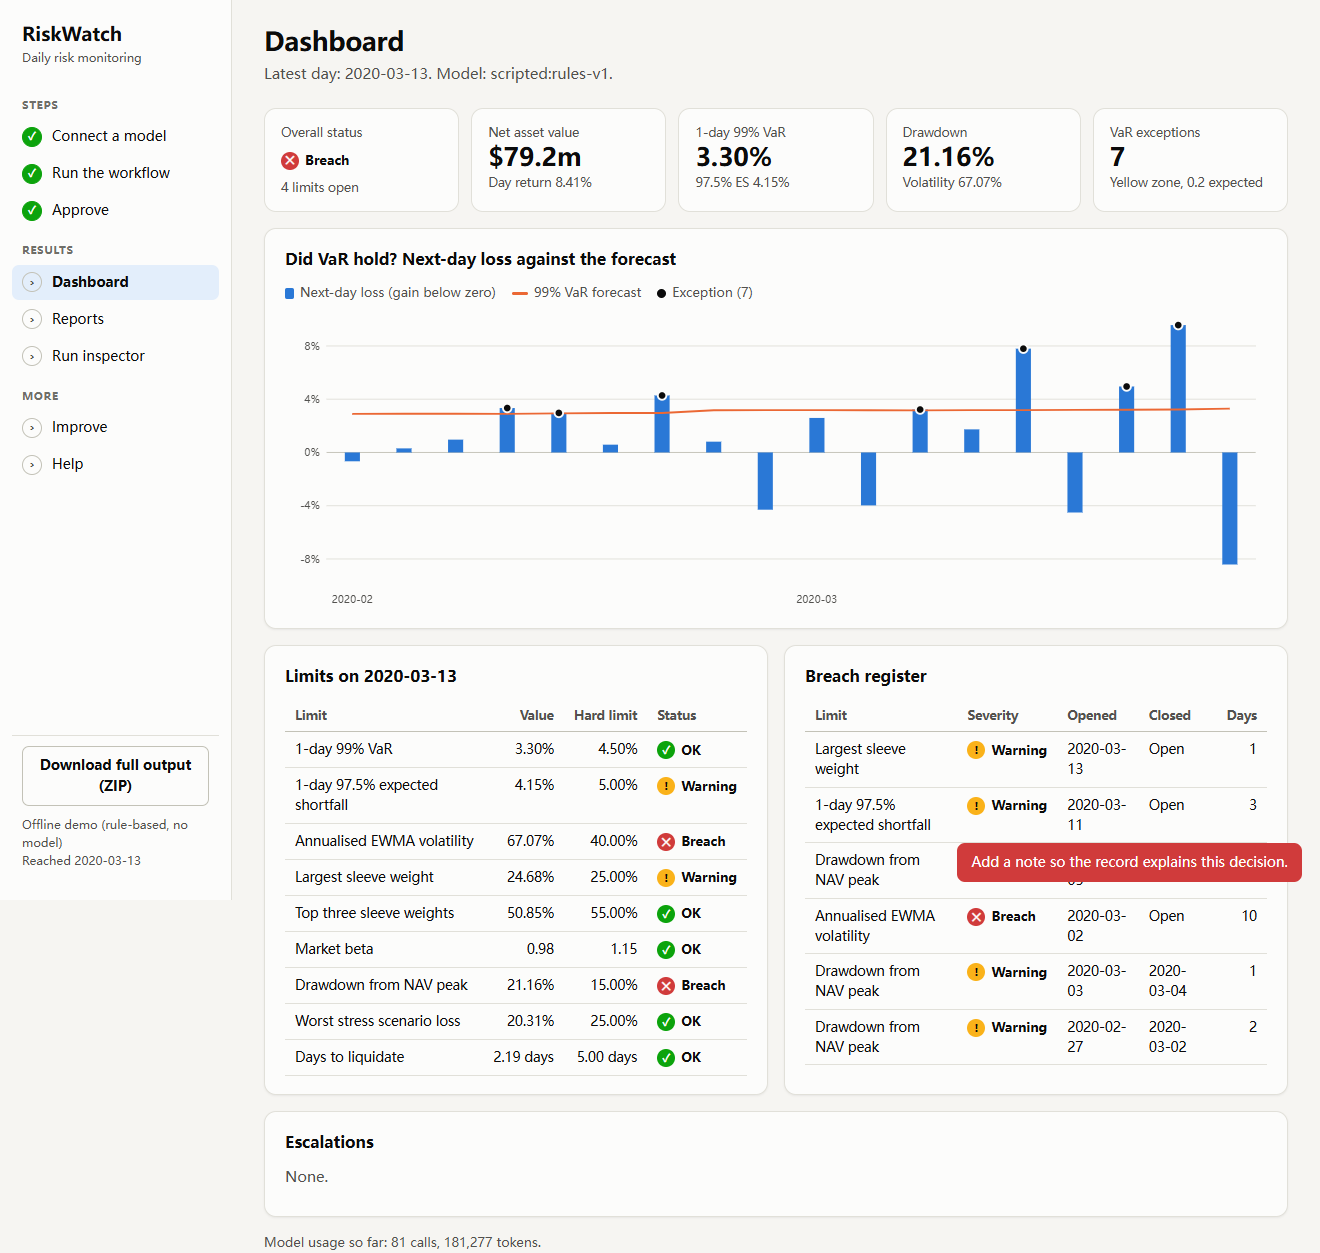
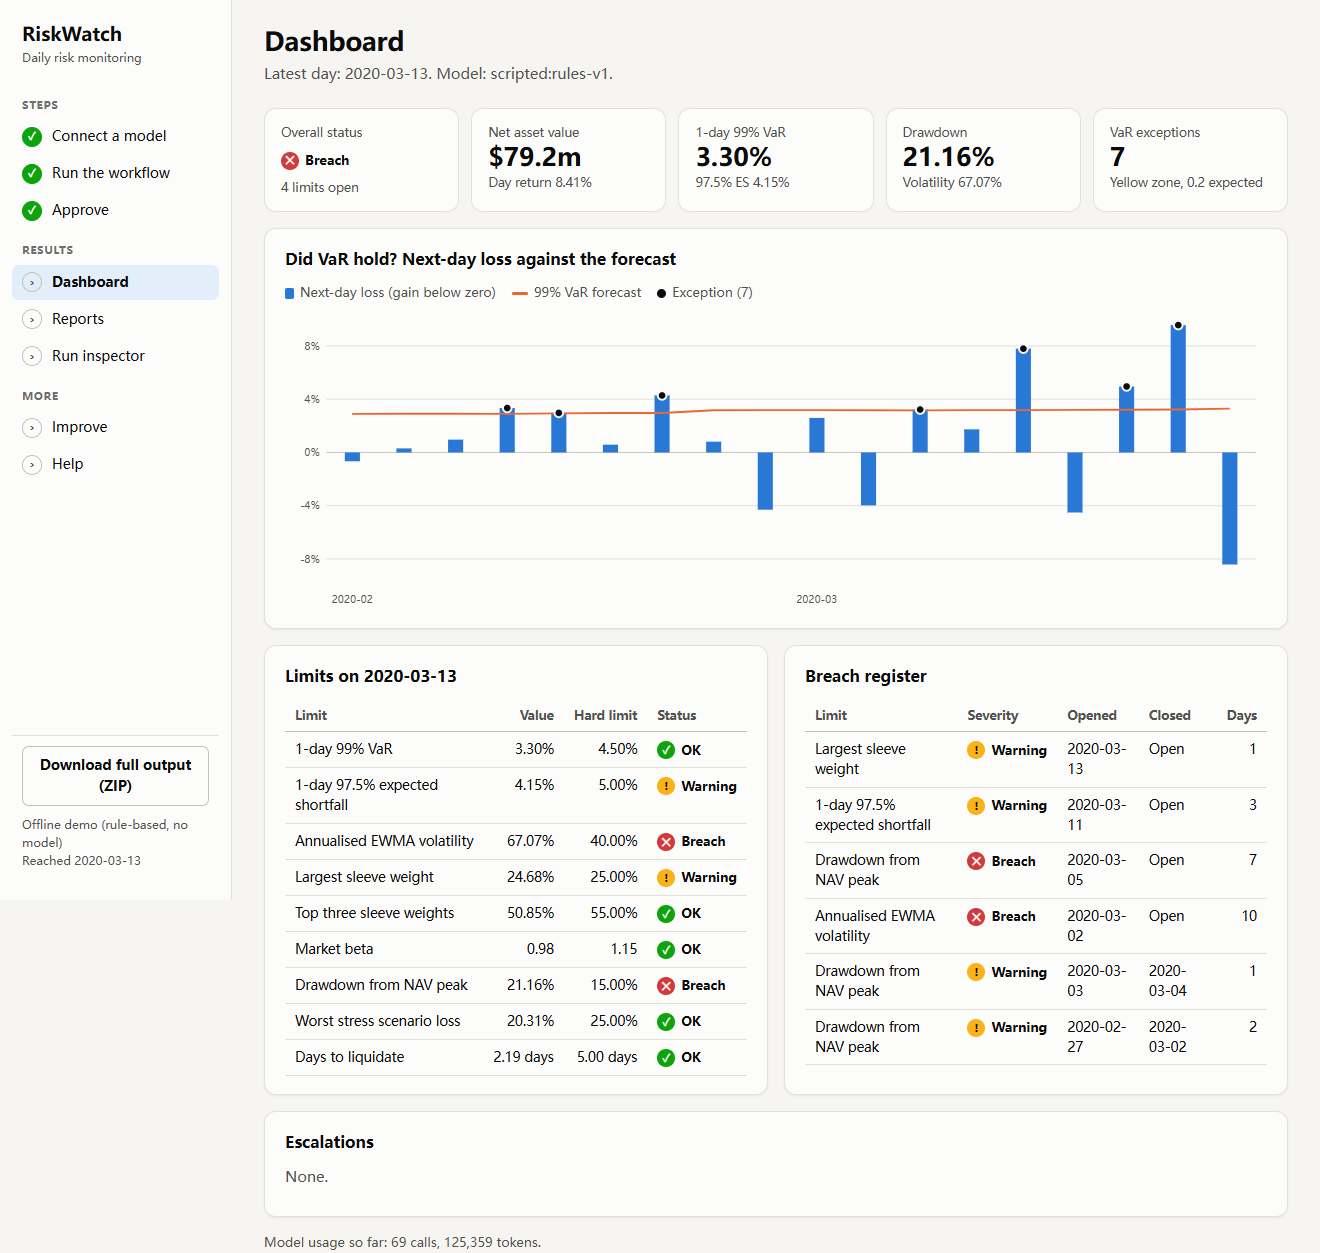
Stop the word "null" appearing on three pages
The run inspector printed "nullnull" under every run's header. Its optional notices went straight
to replaceChildren, which renders null as text, not through h(), which drops it. Reports (with
nothing published) and Improve (with no evaluation running) had the same pattern. They now pass an
empty string, as the Run page already did.

An error toast is now cleared when you move to another page, so the Approve page's "Add a note"
warning no longer follows you onto the dashboard. The browser check fails if a page shows the word
null, and its screenshots are refreshed.

Changed region(s): [[0.7144, 0.6536, 0.9939, 0.7159], [0.3417, 0.9649, 0.3727, 0.996]]

diff --git a/src/riskwatch/web/static/app.js b/src/riskwatch/web/static/app.js
@@ -795,7 +795,7 @@ async function pageReports() {
   page.replaceChildren(
     h("div", { class: "row" }, h("h1", { class: "grow" }, "Reports"), h("a", { class: "btn", href: "/api/download", id: "download" }, "Download full output (ZIP)")),
     h("p", { class: "lede" }, "Everything released so far. The ZIP adds a period summary and the full audit tables."),
-    items.length ? tabs : null,
+    items.length ? tabs : "",
     items.length ? h("div", { class: "split" }, list, viewer) : h("div", { class: "card" }, h("p", {}, "Nothing has been published yet.")));
   if (items.length) { render(); await show(items.find((i) => i.kind === kind)); }
 }
@@ -846,8 +846,8 @@ async function pageRunDetail(id) {
     h("p", { class: "small" }, h("a", { href: "#/runs" }, "‹ All runs")),
     h("div", { class: "row" }, h("h1", { class: "grow" }, id), status(d.run.status)),
     h("p", { class: "lede" }, `Cutoff ${d.run.cutoff}. Version ${d.run.version}. Model ${d.run.llm}. Started by ${d.run.trigger}.`),
-    d.run.degraded ? h("div", { class: "notice warn" }, `The agents could not finish normally: ${d.run.degraded_reason}`) : null,
-    d.run.halted_reason ? h("div", { class: "notice bad" }, d.run.halted_reason) : null,
+    d.run.degraded ? h("div", { class: "notice warn" }, `The agents could not finish normally: ${d.run.degraded_reason}`) : "",
+    d.run.halted_reason ? h("div", { class: "notice bad" }, d.run.halted_reason) : "",
     h("div", { class: "card" }, h("h2", {}, "Stages"), h("div", { class: "timeline" }, d.stages.map((s) =>
       h("div", { class: "stage" }, h("b", {}, s.round ? `${s.stage} (round ${s.round + 1})` : s.stage), status(s.status), s.attempts > 1 ? h("div", { class: "small muted" }, `${s.attempts} attempts`) : null)))),
     h("div", { class: "card" }, tabs, content));
@@ -869,7 +869,7 @@ async function pageImprove() {
   page.replaceChildren(
     h("h1", {}, "Improve"),
     h("p", { class: "lede" }, "A change goes live only by beating the fixed baseline under rules written before it was tested. Evaluation always replays the full year on the offline backend, so scorecards compare like with like."),
-    job ? h("div", { class: `notice ${job.state === "failed" ? "bad" : "info"}` }, `Evaluating ${job.candidate}: ${job.state}. ${job.last_line || ""}`, job.error ? h("pre", { class: "code" }, job.error) : null) : null,
+    job ? h("div", { class: `notice ${job.state === "failed" ? "bad" : "info"}` }, `Evaluating ${job.candidate}: ${job.state}. ${job.last_line || ""}`, job.error ? h("pre", { class: "code" }, job.error) : null) : "",
     h("div", { class: "card" }, h("div", { class: "row" }, h("div", { class: "grow" }, h("h2", { style: "margin:0" }, "Active version"), h("code", {}, d.active)),
       d.can_rollback ? h("button", { class: "danger", onclick: guard(async () => { if (confirm("Roll back to the previous version?")) { await api("/api/rollback", {}); route(true); } }) }, "Roll back") : null,
       d.can_promote.map((v) => h("button", { class: "primary", onclick: guard(async () => {
@@ -902,7 +902,11 @@ function pageHelp() {
 
 // ---- Router ----
 async function route(keep) {
-  if (!keep) onPoll = null;
+  if (!keep) {
+    onPoll = null;
+    // An error belongs to the page that raised it, so it should not follow you to the next one.
+    document.querySelectorAll("#toasts .toast.err").forEach((el) => el.remove());
+  }
   const [, name, arg] = (location.hash || "#/connect").split("/");
   renderNav();
   try {

diff --git a/scripts/browser_check.py b/scripts/browser_check.py
@@ -6,6 +6,7 @@ Saves screenshots to docs/screens/ and fails on any browser console error.
 from __future__ import annotations
 
 import os
+import re
 import shutil
 import subprocess
 import sys
@@ -39,6 +40,9 @@ def main() -> int:
 
             def shot(name: str) -> None:
                 page.wait_for_timeout(350)
+                # A null handed straight to the DOM renders as the word "null".
+                if re.search(r"\bnull", page.locator("#page").inner_text()):
+                    problems.append(f"{name}: the word null is on the page")
                 page.screenshot(path=SHOTS / f"{name}.png", full_page=True)
 
             # Keep personal account details out of the committed screenshots.
